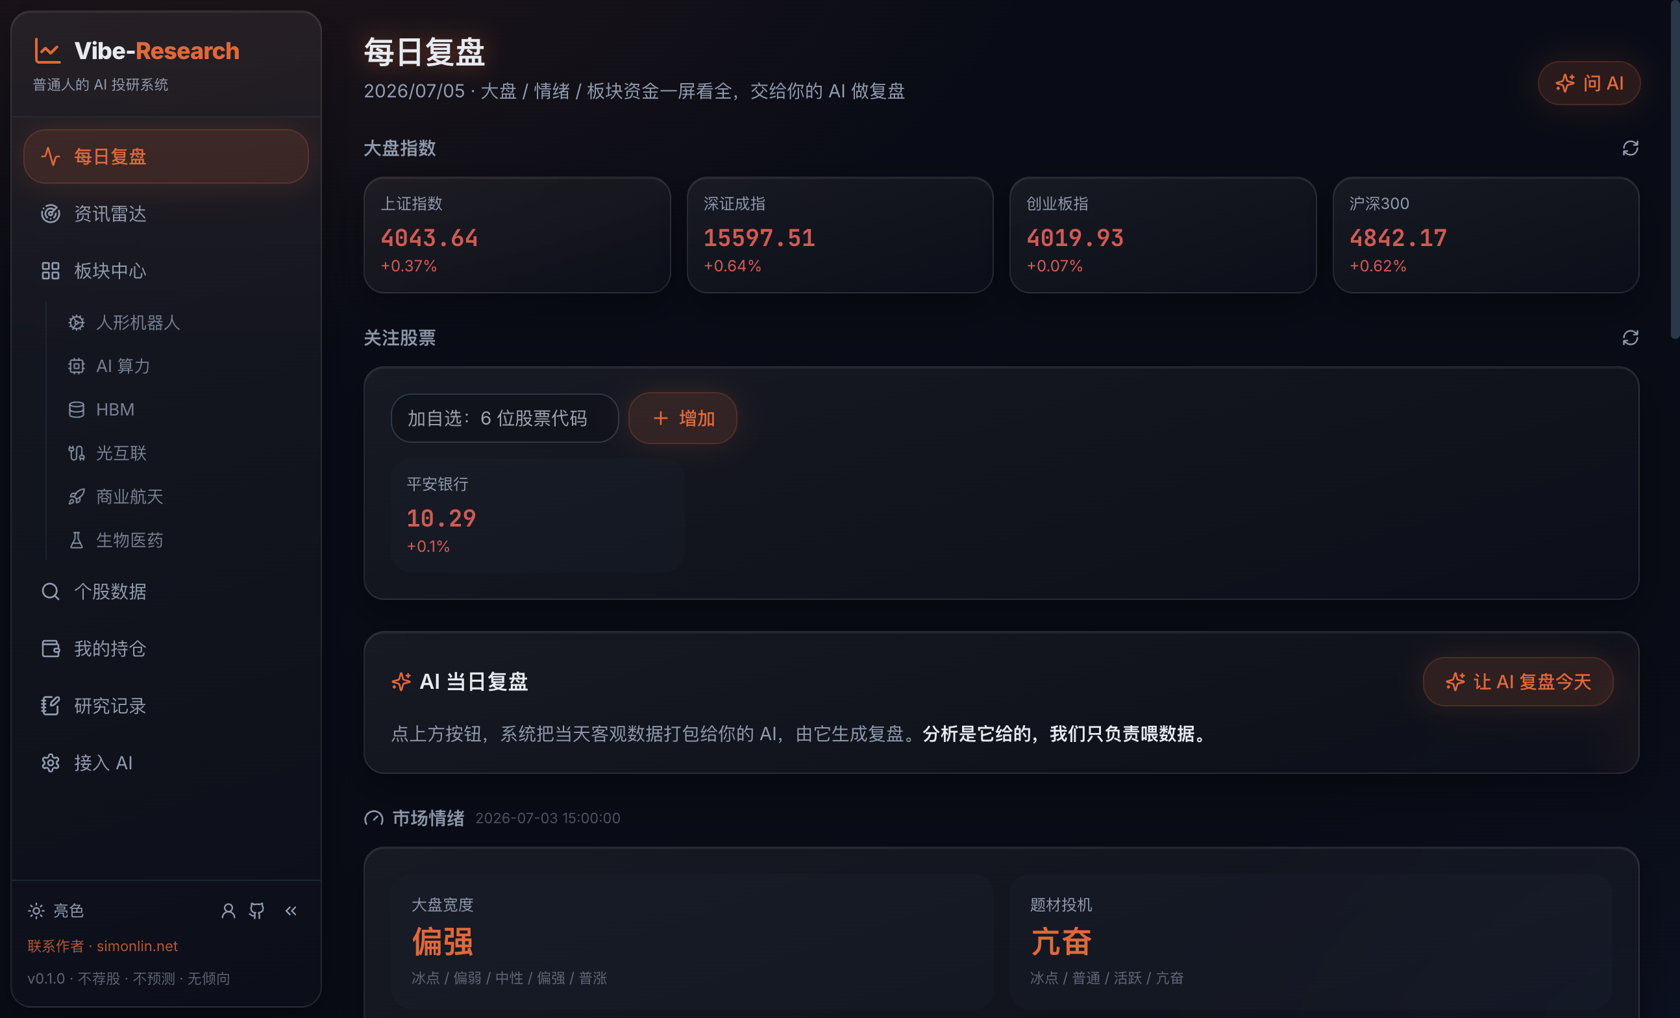
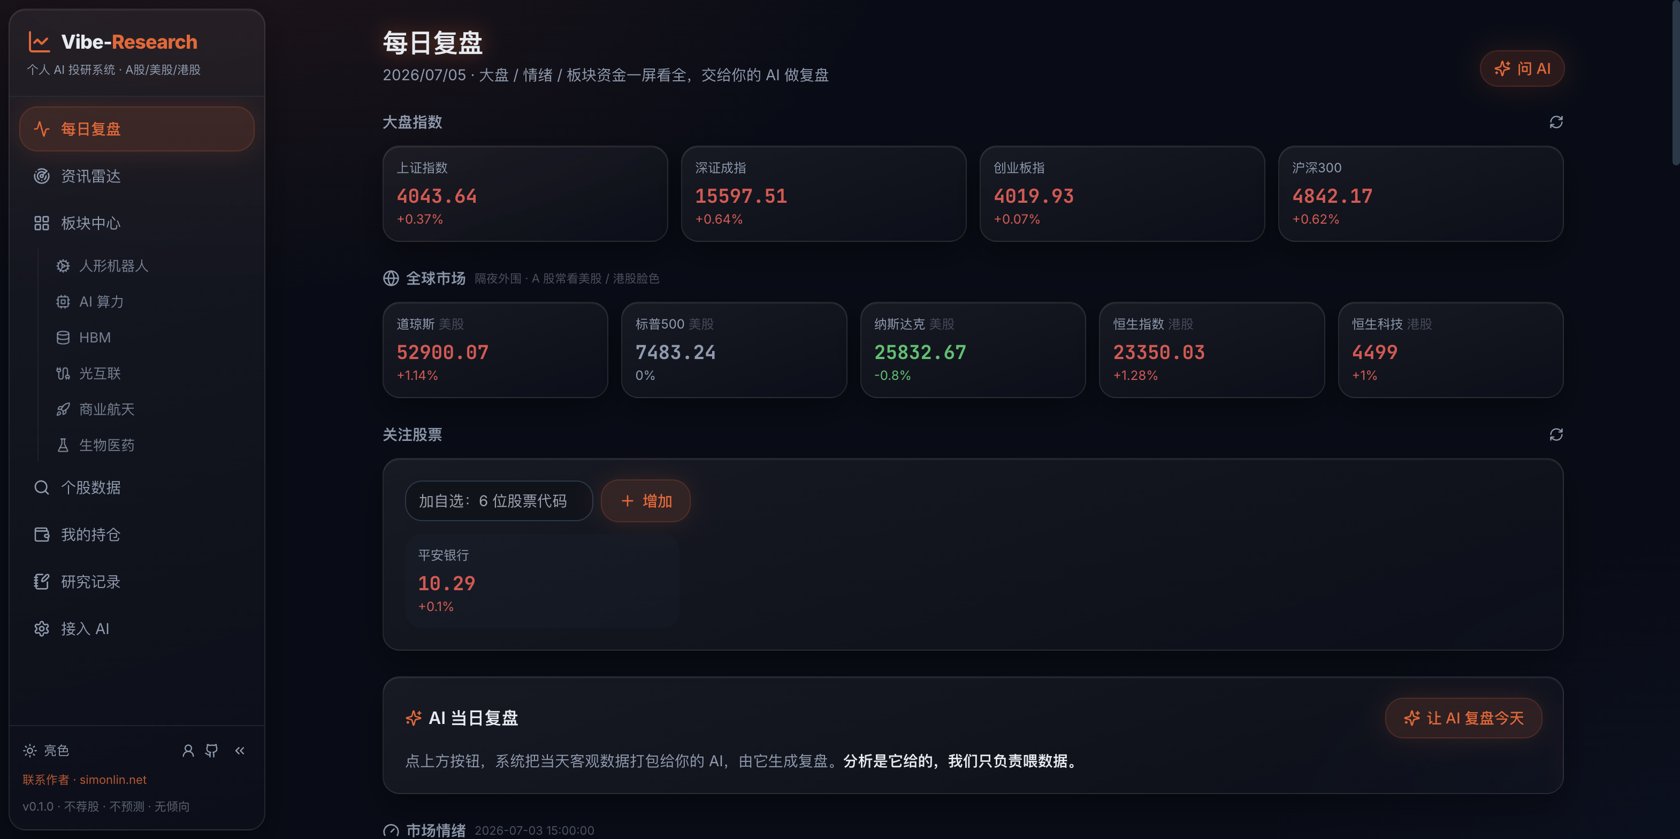
docs: 品牌口径统一为「个人 AI 投研系统（A股/美股/港股）」+ 重截每日复盘图（含全球市场）
- README 标题/tagline、App 侧栏副标题、<title>、meta 描述统一为 About 口径
- 每日复盘截图更新为最新版：新增全球市场栏（隔夜美股道指/标普/纳指 + 港股恒指/恒生科技）

diff --git a/frontend/index.html b/frontend/index.html
@@ -3,12 +3,12 @@
   <head>
     <meta charset="UTF-8" />
     <meta name="viewport" content="width=device-width, initial-scale=1.0" />
-    <title>Vibe-Research · 普通人的 AI 投研系统</title>
+    <title>Vibe-Research · 个人 AI 投研系统（A股/美股/港股）</title>
     <link rel="icon" type="image/svg+xml" href="/favicon.svg" />
     <link rel="preconnect" href="https://fonts.googleapis.com">
     <link rel="preconnect" href="https://fonts.gstatic.com" crossorigin>
     <link href="https://fonts.googleapis.com/css2?family=Inter:wght@400;500;600;700;800&family=JetBrains+Mono:wght@400;500;700&display=swap" rel="stylesheet">
-    <meta name="description" content="Vibe-Research（Vibe 投研）—— 一个普通人的 AI 投研系统。给你一套投研框架 + 一个看板 + 一个能接你自己 AI 的接口；数据配齐，方向由你自己的 AI 给。不荐股、不校准、无倾向。" />
+    <meta name="description" content="Vibe-Research: Your Personal Trading Research Agent —— A股 / 美股 / 港股 的个人投研 Agent。每日复盘、资讯雷达、个股数据、板块中心、我的持仓、研究记录。把数据和功能配齐，由你自己的 AI 驱动投资研究。" />
   </head>
   <body class="min-h-screen bg-background text-foreground antialiased">
     <div id="root"></div>

diff --git a/frontend/src/components/layout/Layout.tsx b/frontend/src/components/layout/Layout.tsx
@@ -58,7 +58,7 @@ export function Layout() {
               </span>
             )}
           </Link>
-          {!collapsed && <p className="mt-1 text-[11px] text-muted-foreground">普通人的 AI 投研系统</p>}
+          {!collapsed && <p className="mt-1 text-[11px] text-muted-foreground">个人 AI 投研系统 · A股/美股/港股</p>}
         </div>
 
         {/* Nav */}

diff --git a/README.md b/README.md
@@ -1,4 +1,4 @@
-# Vibe-Research · 普通人的 AI 投研系统
+# Vibe-Research · 个人 AI 投研系统（A股/美股/港股）
 
 [![License: MIT](https://img.shields.io/badge/License-MIT-yellow.svg)](LICENSE)
 [![Python 3.10+](https://img.shields.io/badge/Python-3.10+-3776AB?logo=python&logoColor=white)](https://www.python.org/)
@@ -8,9 +8,9 @@
 
 **[产品预览](#️-产品预览) · [功能](#-功能) · [数据源](#-数据源data-sources) · [快速开始](#-快速开始) · [接入 AI](#-接入-ai) · [合规](#️-合规) · [相关生态](#-相关生态) · [联系作者](#-联系作者)**
 
-> 给你**框架** + **看板** + 一个能**接自己 AI 的接口**。数据配齐，方向由你自己的 AI 给。
+> **Vibe-Research: Your Personal Trading Research Agent** · A股 / 美股 / 港股 的个人投研 Agent。
 >
-> **不荐股 · 不预测 · 无倾向。**
+> 每日复盘、资讯雷达、个股数据、板块中心、我的持仓、研究记录。把数据和功能配齐，由**你自己的 AI** 驱动投资研究。
 
 Vibe-Research 是一个开源的「个人 AI 投研看板」，**主推 A 股、兼看美股 / 港股**（A 股常要看隔夜外围脸色，数据配上更全）。它不替你做决定——把行情、研报、估值、财务、公告、资金面、资讯都配齐，放进一个干净的看板，再留一个能接入**你自己的 AI** 的接口。方向和结论，交给你自己配置的模型 / agent。
 